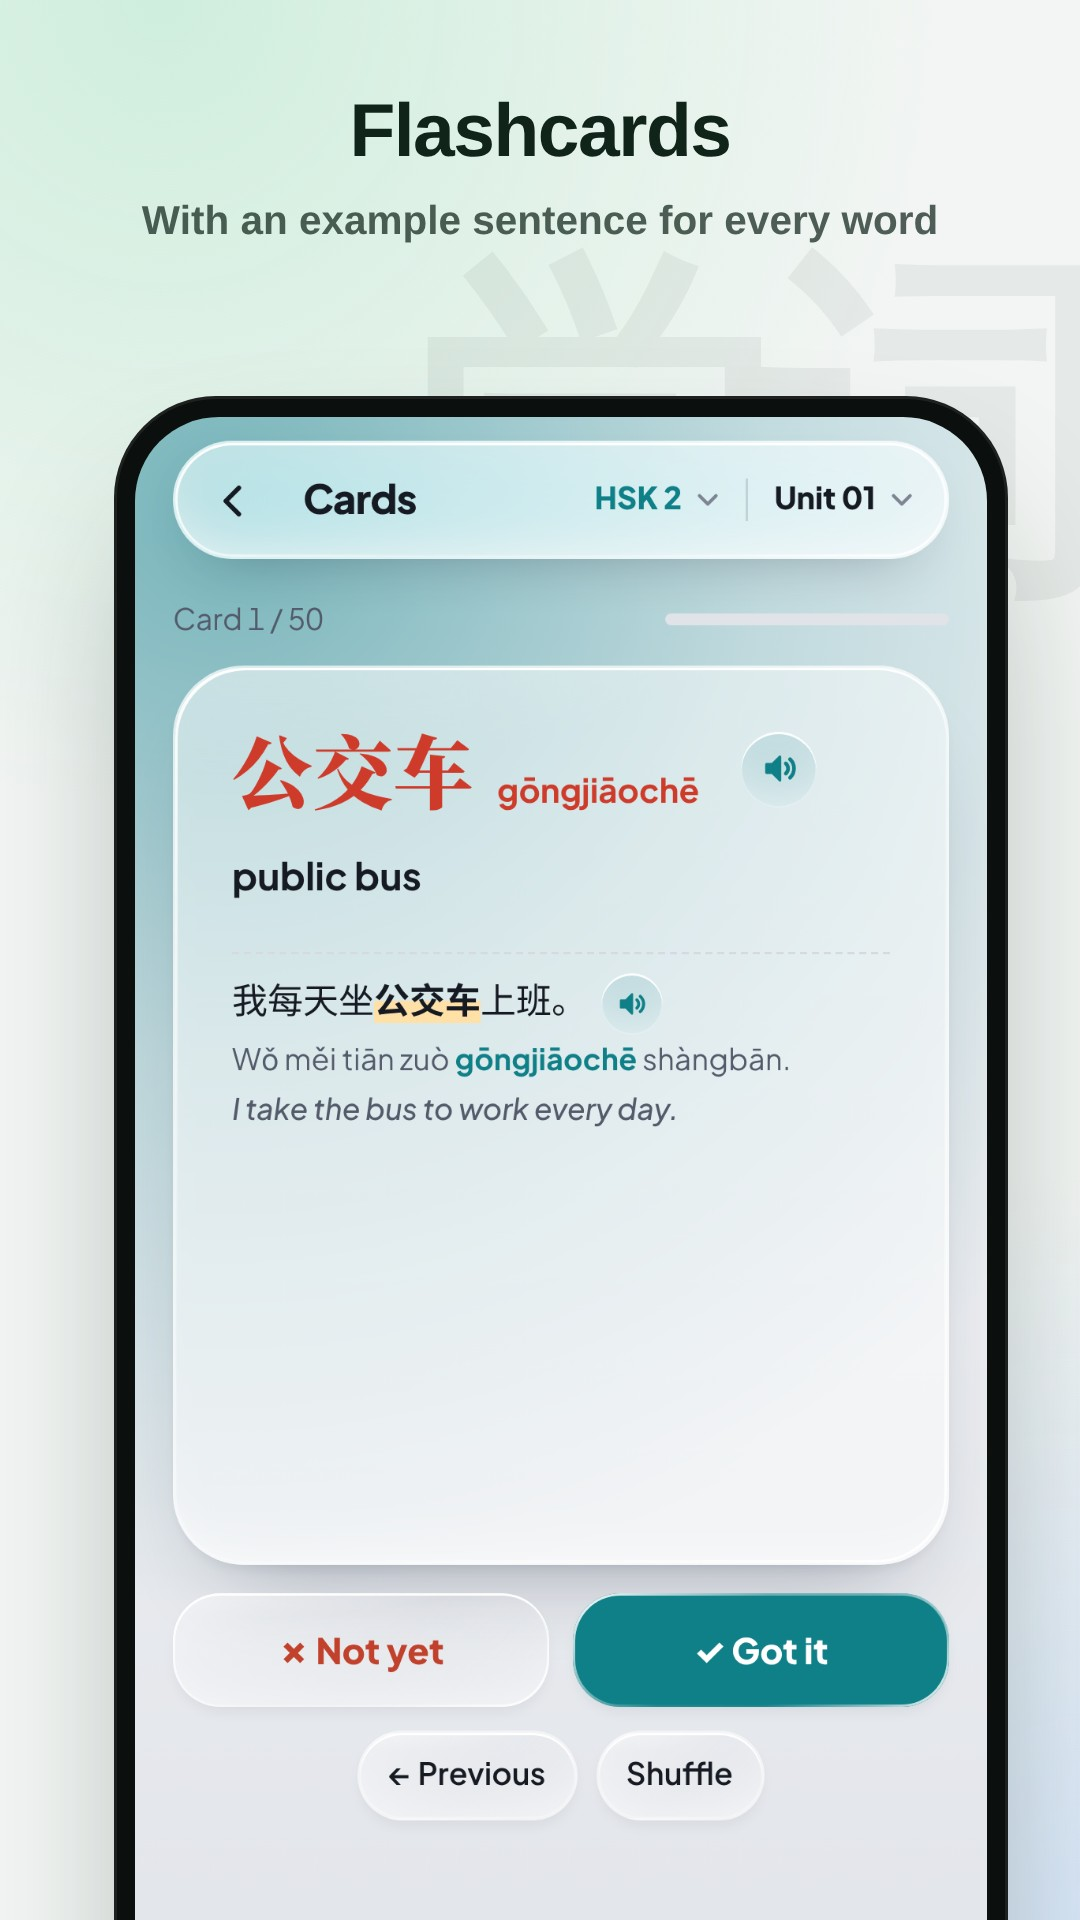
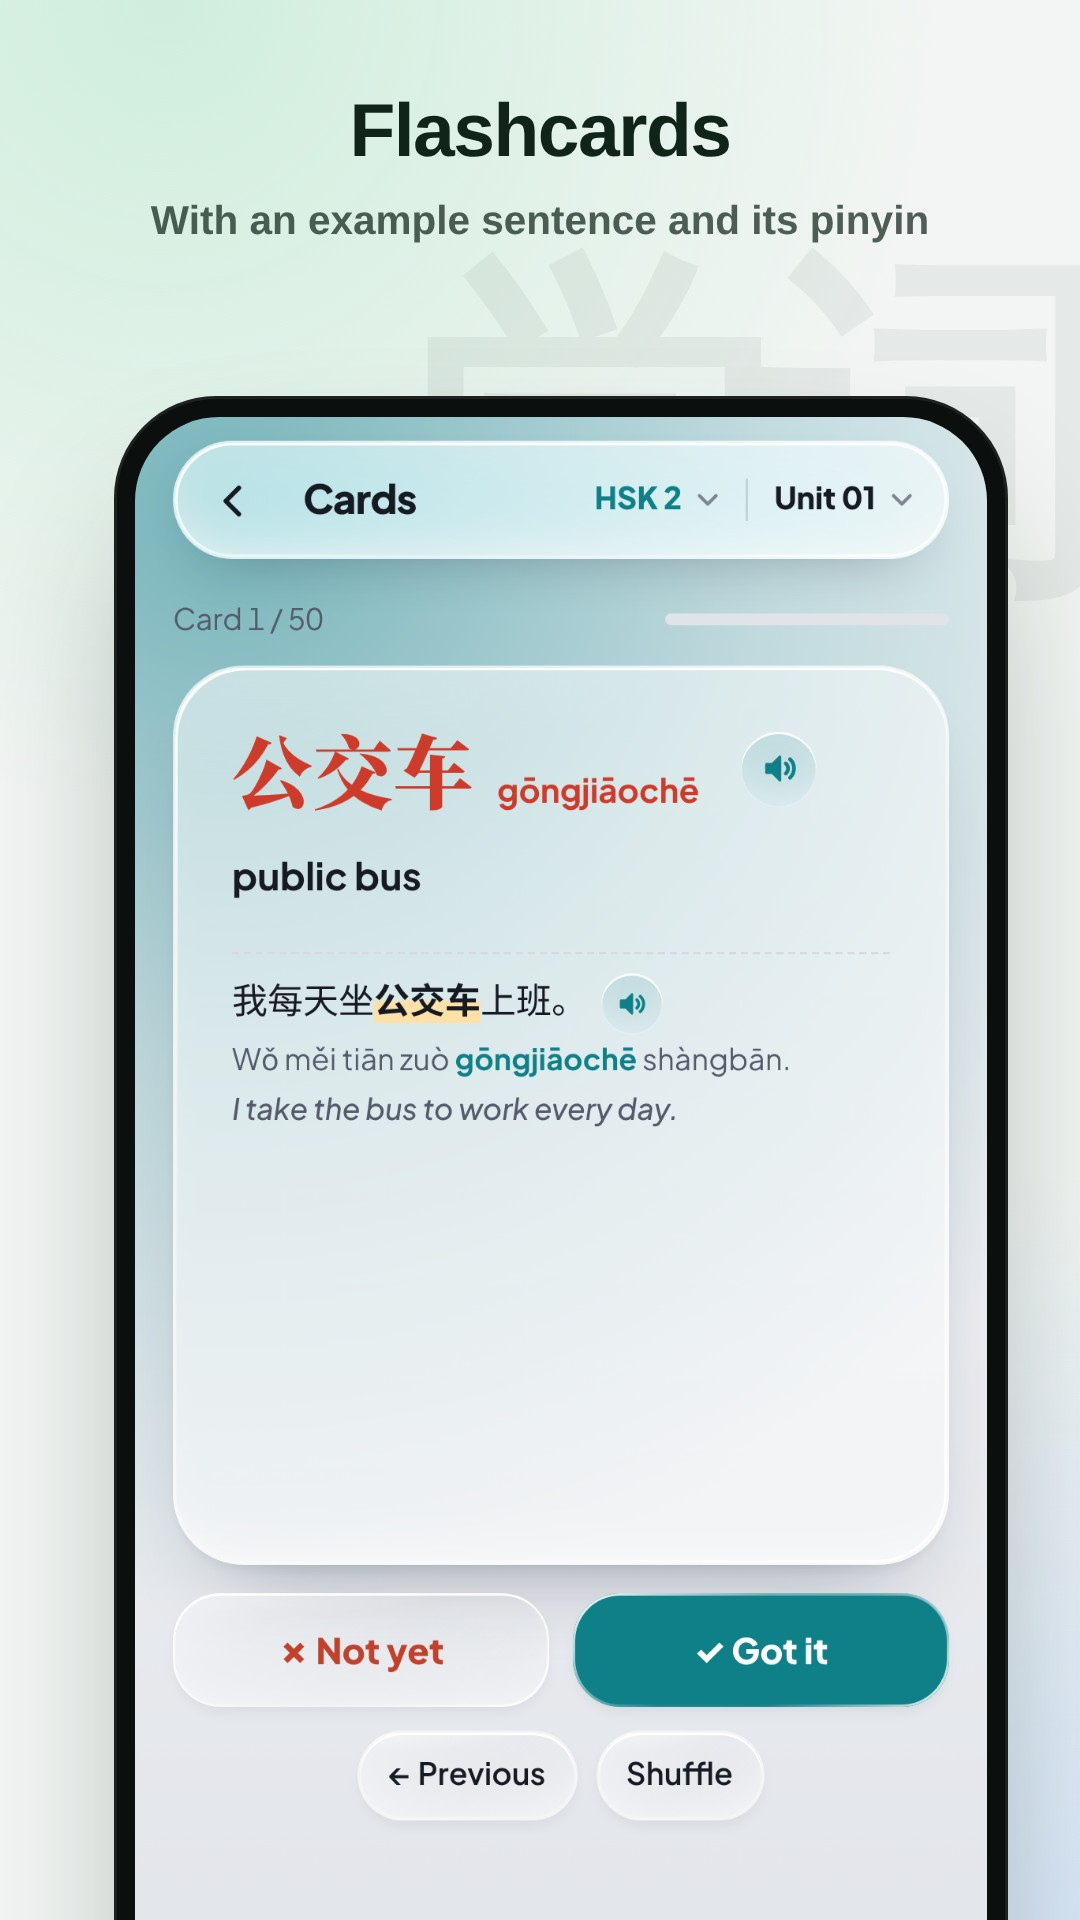
Store: card caption and descriptions mention sentence pinyin
Claude-Session: https://claude.ai/code/session_01RkkKZ85gvp9mEK9B4Fo6Wt

Changed region(s): [[0.1222, 0.0938, 0.8861, 0.125]]

diff --git a/store/make_store_assets.py b/store/make_store_assets.py
@@ -30,7 +30,7 @@ CAPTIONS = {
         'locale': 'id-ID',
         'shots': [
             ('home', 'Kuasai 5.334 kata HSK 1–6', 'Progres tiap level terlihat jelas'),
-            ('card', 'Kartu hafalan', 'Lengkap dengan contoh kalimat'),
+            ('card', 'Kartu hafalan', 'Dengan contoh kalimat dan pinyinnya'),
             ('quiz', 'Kuis tiga cara', 'Arti, hanzi, atau isi kalimat'),
             ('stats', 'Lihat kata makin matang', 'Dari merah ke kuning ke hijau'),
             ('tones', 'Warna nada', 'Ucapkan setiap kata dengan nada yang tepat'),
@@ -42,7 +42,7 @@ CAPTIONS = {
         'locale': 'en-US',
         'shots': [
             ('home', 'Master 5,334 HSK 1–6 words', 'See your progress at every level'),
-            ('card', 'Flashcards', 'With an example sentence for every word'),
+            ('card', 'Flashcards', 'With an example sentence and its pinyin'),
             ('quiz', 'Quiz three ways', 'Meaning, hanzi, or fill the gap'),
             ('stats', 'Watch words mature', 'From red to yellow to green'),
             ('tones', 'Tone colours', 'Say every word with the right tone'),

diff --git a/store/listing.md b/store/listing.md
@@ -21,7 +21,7 @@ Hafalkan 5.334 kosakata HSK 1–6 dengan kartu, kuis, dan warna nada. Offline.
 
 **Deskripsi lengkap** (maks. 4.000):
 
-XueCi Mandarin (学词, "belajar kata") membantu kamu menghafal seluruh kosakata HSK 1–6 versi terbaru (silabus HSK 3.0, November 2025): 5.334 kata, lengkap dengan pinyin, arti, dan contoh kalimat.
+XueCi Mandarin (学词, "belajar kata") membantu kamu menghafal seluruh kosakata HSK 1–6 versi terbaru (silabus HSK 3.0, November 2025): 5.334 kata, lengkap dengan pinyin, arti, dan contoh kalimat berpinyin.
 
 BELAJAR DENGAN TIGA CARA
 • Daftar: cari kata lewat hanzi, pinyin, atau arti.
@@ -44,6 +44,8 @@ NYAMAN DIPAKAI
 PRIVASI
 Progres hanya tersimpan di perangkatmu. Aplikasi tidak mengumpulkan atau membagikan data apa pun.
 
+Setiap contoh kalimat dilengkapi pinyin.
+
 Daftar kata dan pinyin berdasarkan data terbuka hsk30. XueCi Mandarin adalah aplikasi independen dan tidak berafiliasi dengan penyelenggara ujian HSK.
 
 **Catatan rilis pertama** (maks. 500):
@@ -60,7 +62,7 @@ Learn 5,334 HSK 1–6 words with flashcards, quizzes and tone colours. Offline.
 
 **Full description** (max 4,000):
 
-XueCi Mandarin (学词, "learn words") helps you learn the complete HSK 1–6 vocabulary of the latest syllabus (HSK 3.0, November 2025): 5,334 words, each with pinyin, meaning and an example sentence.
+XueCi Mandarin (学词, "learn words") helps you learn the complete HSK 1–6 vocabulary of the latest syllabus (HSK 3.0, November 2025): 5,334 words, each with pinyin, meaning and an example sentence with pinyin.
 
 THREE WAYS TO LEARN
 • List: find any word by hanzi, pinyin or meaning.
@@ -82,6 +84,8 @@ MADE FOR DAILY USE
 
 PRIVACY
 Your progress stays on your device. The app does not collect or share any data.
+
+Every example sentence comes with its pinyin.
 
 Word list and pinyin based on the open hsk30 data. XueCi Mandarin is an independent app and is not affiliated with the organisers of the HSK exam.
 
